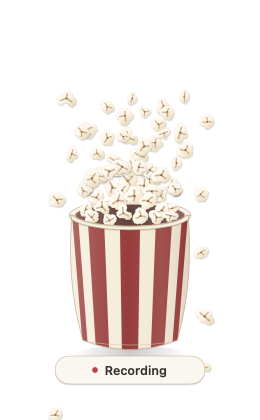
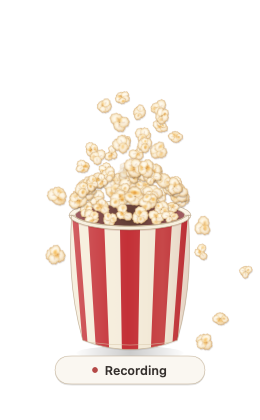
Regenerate popcorn visuals for the new artwork and pile motion
Stills, native 1x copies, the kernel preview, and the README GIF now show
the buttered kernels, cinema-red tub, moving pile, and the collapse into
the Transcribing capsule. Adds a busy-backdrop native still and documents
the review, motion, and benchmark capture modes. Beagle stills are
unchanged and were not regenerated.

Claude-Session: https://claude.ai/code/session_01N85GfCiXRj45JScwBpcgTM

diff --git a/PopcornHUD/Sources/PopcornCapture/main.swift b/PopcornHUD/Sources/PopcornCapture/main.swift
@@ -163,7 +163,7 @@ struct PopcornCapture {
                 "-c:v", "libx264", "-pix_fmt", "yuv420p", "-crf", "18", mp4])
         if mascot == .popcorn {
             ffmpeg(["-y", "-framerate", "60", "-i", "\(movieDir)/f_%04d.png",
-                    "-vf", "fps=20,split[s0][s1];[s0]palettegen=max_colors=192:stats_mode=diff[p];[s1][p]paletteuse=dither=bayer:bayer_scale=4",
+                    "-vf", "fps=16,split[s0][s1];[s0]palettegen=max_colors=192:stats_mode=diff[p];[s1][p]paletteuse=dither=bayer:bayer_scale=3",
                     "\(outDir)/demo-tub.gif"])
         }
         try? FileManager.default.removeItem(atPath: movieDir)
@@ -262,7 +262,7 @@ struct PopcornCapture {
         \(specialArtifacts)
         - `kernel-preview.png` (kernel close-up, light and dark rows)
         - `\(prefix)polish.mp4`: 60 fps deterministic input demo, then the recording → transcribing collapse and one second of the capsule - **not** microphone footage.
-        \(mascot == .popcorn ? "- `demo-tub.gif`: 20 fps README hero derived from the same deterministic frames." : "")
+        \(mascot == .popcorn ? "- `demo-tub.gif`: 16 fps README hero derived from the same deterministic frames." : "")
 
         ## Still required (live)
 

diff --git a/docs/visuals/popcorn-polish-check.md b/docs/visuals/popcorn-polish-check.md
@@ -1,18 +1,19 @@
-# Popcorn voice-polish verification - 2026-09-12T22:55:14Z
+# Popcorn voice-polish verification - 2026-09-13T00:30:43Z
 
 Production HUD remains Canvas-only. Popcorn captures use the
-fixed 260×420 point scene; primary stills use 2× documentation scale with native 1× copies where applicable. The popcorn path uses only tub and kernel geometry and restrained motion.
+fixed 260×420 point scene and the production `SceneInput(snapshot:)` mapping; primary stills use 2× documentation scale with native 1× copies where applicable. Kernels are pre-rendered sprites under one scene-space light; the decorative pile is spring-simulated in `PopcornSim`.
 
 ## Checks
 
 - Capture command: `PopcornCapture <output-directory> popcorn`.
 - Seed 2026 sequence: quiet 0.035 (2 s), normal 0.12 (2 s), loud 0.28 (3 s),
   accents (2 s), silence (1 s). Light and dark backgrounds.
-- Peak kernel count in capture: 70 (cap 120).
-- Sequence generation wall time (simulation, still rendering, and PNG writes): 247.0 ms.
-- Offscreen Canvas renders (2× light+dark pair): median 1.79 ms,
-  95th 2.16 ms. These are ImageRenderer measurements,
+- Peak kernel count in capture: 71 (cap 120).
+- Sequence generation wall time (simulation, still rendering, and PNG writes): 179.6 ms.
+- Offscreen Canvas renders (2× light+dark pair): median 0.97 ms,
+  95th 1.02 ms. These are ImageRenderer measurements,
   **not** live display/compositor frame timings and **not** microphone-to-screen latency.
+  Layered release numbers come from `PopcornCapture --bench`.
 - Packet-to-render path is one display tick after `consumePeak` (held level between
   packets; onset only on fresh). Mic → Voxtype → socket → HUD is unmeasured here.
 
@@ -23,11 +24,11 @@ fixed 260×420 point scene; primary stills use 2× documentation scale with nati
 - `popcorn-loud-light.png` / `popcorn-loud-dark.png`
 - `popcorn-accents-light.png` / `popcorn-accents-dark.png`
 - `popcorn-silence-light.png` / `popcorn-silence-dark.png`
-- `popcorn-loud-reducemotion-light.png` / `popcorn-loud-reducemotion-dark.png`
+- `popcorn-loud-reducemotion-light.png` / `popcorn-loud-reducemotion-dark.png` (simulated with Reduce Motion on: no pops, no pile motion)
 - `popcorn-transcribing-light.png` / `popcorn-transcribing-dark.png` (capsule only)
-- `popcorn-*-native1x.png` (native-scale copies)
-- `kernel-preview.png` (legacy popcorn route)
-- `popcorn-polish.mp4`: 60 fps deterministic input demo ending in one second of transcribing - **not** microphone footage.
+- `popcorn-*-native1x.png` (native-scale copies) and `popcorn-loud-busy-native1x.png` (patterned backdrop)
+- `kernel-preview.png` (kernel close-up, light and dark rows)
+- `popcorn-polish.mp4`: 60 fps deterministic input demo, then the recording → transcribing collapse and one second of the capsule - **not** microphone footage.
 - `demo-tub.gif`: 16 fps README hero derived from the same deterministic frames.
 
 ## Still required (live)

diff --git a/docs/visuals/README.md b/docs/visuals/README.md
@@ -1,7 +1,23 @@
 # Visual captures
 
-- `demo-tub.gif` — README hero: HUD reacting to speech, then collapsing to a Transcribing capsule.
-- `popcorn-*.png` / `beagle-*.png` — stills of the two mascots (quiet / normal / loud / silence / accents; beagle also has Reduce Motion and transcribing).
-- `popcorn-*-native1x.png` — native-scale popcorn stills for small-size review; popcorn also has Reduce Motion and transcribing captures.
-- `kernel-preview.png` — kernel close-up.
-- `popcorn-polish-check.md` / `beagle-polish-check.md` — review notes for those stills.
+All captures come from `PopcornCapture` with deterministic synthetic input (seed 2026), rendered offscreen through the same `SceneInput(snapshot:)` mapping the HUD uses. None of it is microphone footage.
+
+- `demo-tub.gif` — README hero: the HUD reacting to quiet → normal → loud → accented speech and a pause, then the tub fading into the Transcribing capsule.
+- `popcorn-*.png` / `beagle-*.png` — stills of the two mascots (quiet / normal / loud / silence / accents; both also have Reduce Motion and transcribing).
+- `popcorn-*-native1x.png` — native-scale popcorn stills for small-size review, plus `popcorn-loud-busy-native1x.png` on a cluttered backdrop.
+- `kernel-preview.png` — kernel close-up: six shapes on light, six on black, with increasing and decreasing butter.
+- `popcorn-polish-check.md` / `beagle-polish-check.md` — generated notes for those stills.
+
+Regenerate from the repository root:
+
+```bash
+swift build -c release --package-path PopcornHUD --product PopcornCapture
+PopcornHUD/.build/release/PopcornCapture docs/visuals popcorn
+PopcornHUD/.build/release/PopcornCapture docs/visuals beagle   # only if the beagle changed
+```
+
+Review and measurement modes write outside `docs/visuals/`:
+
+- `PopcornCapture --review <dir>` — every documented frame on light, dark, gray, mid-gray, and busy backdrops at 1×, 2×, and 4×.
+- `PopcornCapture --motion <dir>` — pile motion evidence: contact sheets (full, pile-only, heap-only), a frame-by-frame collapse sheet, Reduce Motion, a per-piece `heap-trace.csv`, and MP4/GIF clips.
+- `PopcornCapture --bench [--json out.json]` — release-build costs: simulation (with collision and heap phases), scene mapping, and offscreen rendering at 1× and 2×, including a forced 120-kernel population. Offscreen `ImageRenderer` timings are not compositor frame times.
